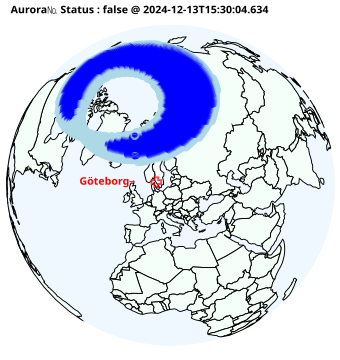
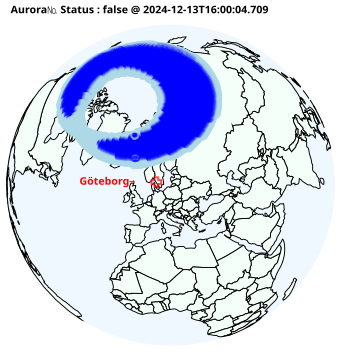
20241213160018 added aur.html

diff --git a/aur.html b/aur.html
@@ -7,6 +7,6 @@
 <body>
     <h1>Aurora Watch</h1>
     <img src="a.png" alt="Aurora Image" style="width:100%;max-width:600px;">
-    <p>Aurora Level 🌌= (0.0) was observed. (2024-12-13T15:30:04.634)</p>
+    <p>Aurora Level 🌌= (0.0) was observed. (2024-12-13T16:00:04.709)</p>
 </body>
 </html>
